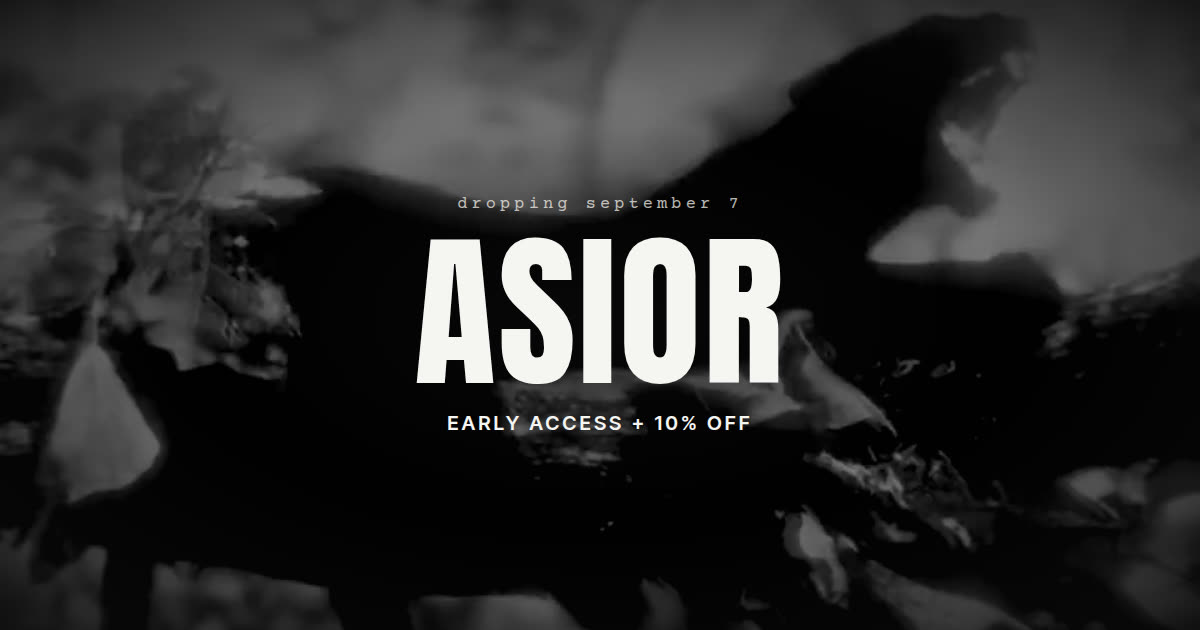
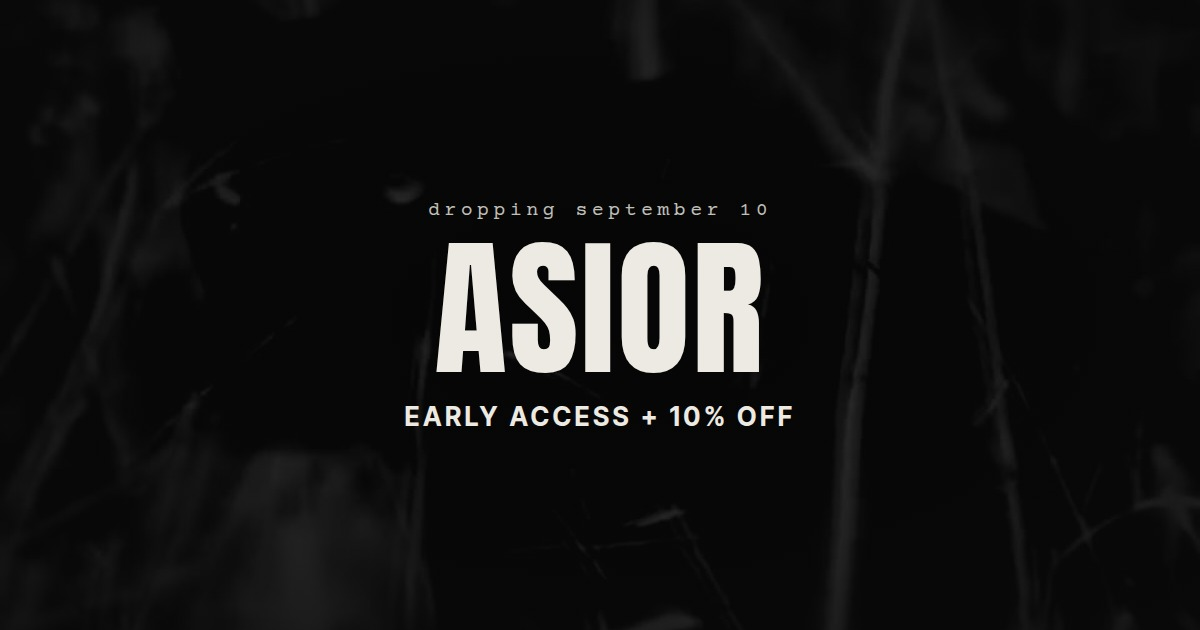
Move the drop to September 10, 7 PM CT — full date sweep
Launch date changed (Fall Collection bulk inventory now expected ~6
days out, photoshoot Tuesday, launch Thursday). Updated every real
reference, verified via repo-wide grep before and after:

- DROP_AT countdown target: 2026-09-07T00:00:00-05:00 ->
  2026-09-10T19:00:00-05:00. Verified with Node's own Intl that this
  resolves to exactly "Thursday, September 10, 2026, 7:00:00 PM CDT" —
  DST doesn't end until November, so -05:00 (CDT) is correct, not
  -06:00 (CST). Countdown already handled the "no negative time after
  launch" case correctly (adds .done and stops the interval at zero),
  so that logic didn't need to change, just the target.
- index.html: <title>, meta description, og:title, og:description,
  og:image:alt, the visible "dropping september 10" eyebrow, and the
  lookbook's "september 10 — limited run" line.
- fall-collection.html: the one date reference in its still-empty
  pre-launch copy.
- assets/og-default.jpg: regenerated (same fonts, same layout, same
  gate-poster.jpg backdrop as the gate itself) with the corrected date
  baked into the image itself — the old file had "dropping september 7"
  literally in the pixels, which text search can't catch.

Left alone: jag-sweats-preorder's unrelated example shipping date in
product-details.js's comment — not a Fall launch reference.

Verified: countdown renders correctly and matches the eyebrow date at
360px/390px/414px/desktop, no overflow, full regression suite passes.
[…]

diff --git a/index.html b/index.html
@@ -3,8 +3,8 @@
 <head>
 <meta charset="UTF-8">
 <meta name="viewport" content="width=device-width, initial-scale=1.0">
-<title>Asior — The Fall Collection, September 7</title>
-<meta name="description" content="The Asior Fall Collection lands September 7. Sign up for first access plus 10% off your first order — limited run, gone once it sells out.">
+<title>Asior — The Fall Collection, September 10</title>
+<meta name="description" content="The Asior Fall Collection lands September 10. Sign up for first access plus 10% off your first order — limited run, gone once it sells out.">
 <meta name="theme-color" content="#0A0A0A">
 <link rel="canonical" href="https://asiorclothing.com/">
 
@@ -12,13 +12,13 @@
      real tags in the served HTML or a shared link renders as a bare URL. -->
 <meta property="og:site_name" content="Asior">
 <meta property="og:type" content="website">
-<meta property="og:title" content="Asior — The Fall Collection, September 7">
-<meta property="og:description" content="The Asior Fall Collection lands September 7. Sign up for first access plus 10% off your first order — limited run, gone once it sells out.">
+<meta property="og:title" content="Asior — The Fall Collection, September 10">
+<meta property="og:description" content="The Asior Fall Collection lands September 10. Sign up for first access plus 10% off your first order — limited run, gone once it sells out.">
 <meta property="og:url" content="https://asiorclothing.com/">
 <meta property="og:image" content="https://asiorclothing.com/assets/og-default.jpg">
 <meta property="og:image:width" content="1200">
 <meta property="og:image:height" content="630">
-<meta property="og:image:alt" content="Asior — the Fall Collection, September 7">
+<meta property="og:image:alt" content="Asior — the Fall Collection, September 10">
 <meta name="twitter:card" content="summary_large_image">
 
 <!-- Two faces, both requested as real webfonts rather than left to the
@@ -1223,7 +1223,7 @@
 
     <div class="gate-core">
 
-      <p class="eyebrow rise" style="--in: 120ms">dropping september 7</p>
+      <p class="eyebrow rise" style="--in: 120ms">dropping september 10</p>
 
       <!-- Dashes, not zeros, before the script runs: a countdown showing
            00 00 00 00 looks like the drop has already been and gone.
@@ -1389,7 +1389,7 @@
 
       <div class="sheet-in look-head">
         <div><b>the fall collection</b></div>
-        <div>september 7 — limited run</div>
+        <div>september 10 — limited run</div>
       </div>
 
       <!-- Photographs only: nothing here is a link, because there is
@@ -1539,11 +1539,13 @@
 
   // The drop as one fixed instant, not a date string the browser gets to
   // interpret in whatever timezone the visitor happens to be in. -05:00
-  // is Central on 7 September, which is where Asior runs, so everyone
-  // worldwide counts down to the same moment. Change the time here if it
-  // isn't going live at midnight — and update the visible date line in
-  // the markup above to match.
-  const DROP_AT = new Date('2026-09-07T00:00:00-05:00');
+  // is Central Daylight Time, which is what Chicago is on 10 September
+  // (DST doesn't end until November), so everyone worldwide counts down
+  // to the same real moment: Thursday, September 10, 2026, 7:00 PM CT.
+  // If this ever moves to a date outside CDT, this offset needs to
+  // change to -06:00 (CST) to still mean Central time — and update the
+  // visible date line in the markup above to match.
+  const DROP_AT = new Date('2026-09-10T19:00:00-05:00');
 
   const countdown = document.getElementById('countdown');
   const cdDays = document.getElementById('cdDays');

diff --git a/fall-collection.html b/fall-collection.html
@@ -284,7 +284,7 @@
       // or empty-looking grid, and keep it out of search results until
       // there's real content.
       document.head.insertAdjacentHTML('beforeend', '<meta name="robots" content="noindex">');
-      subEl.textContent = 'Dropping september 7 — limited run.';
+      subEl.textContent = 'Dropping september 10 — limited run.';
       emptyEl.textContent = "The Fall Collection isn't live yet. Join Early Access on the homepage to hear the moment it is.";
       return;
     }
